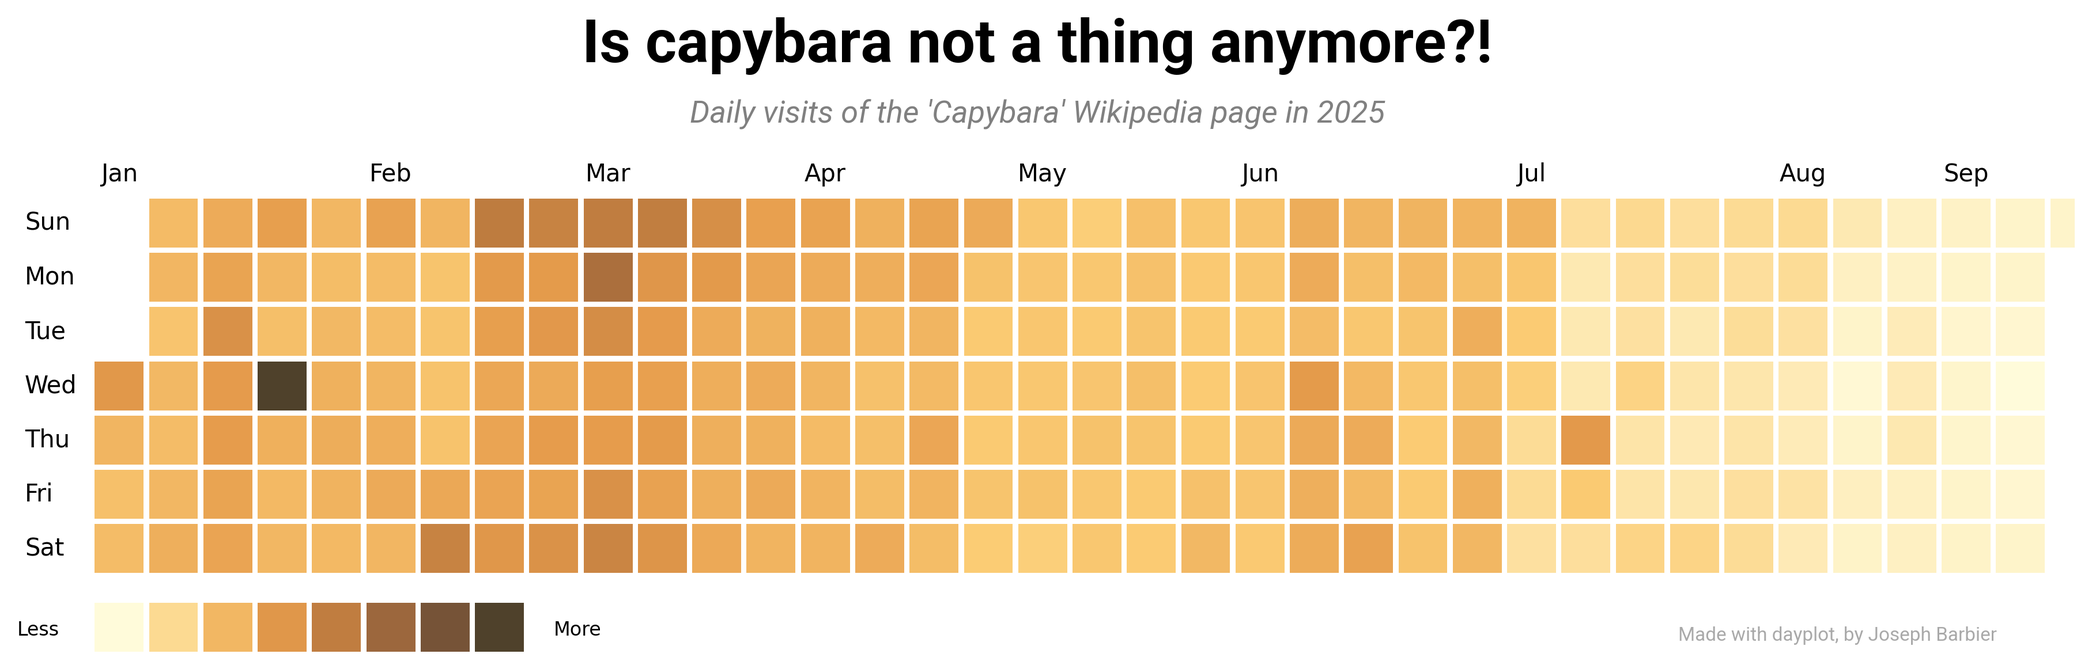
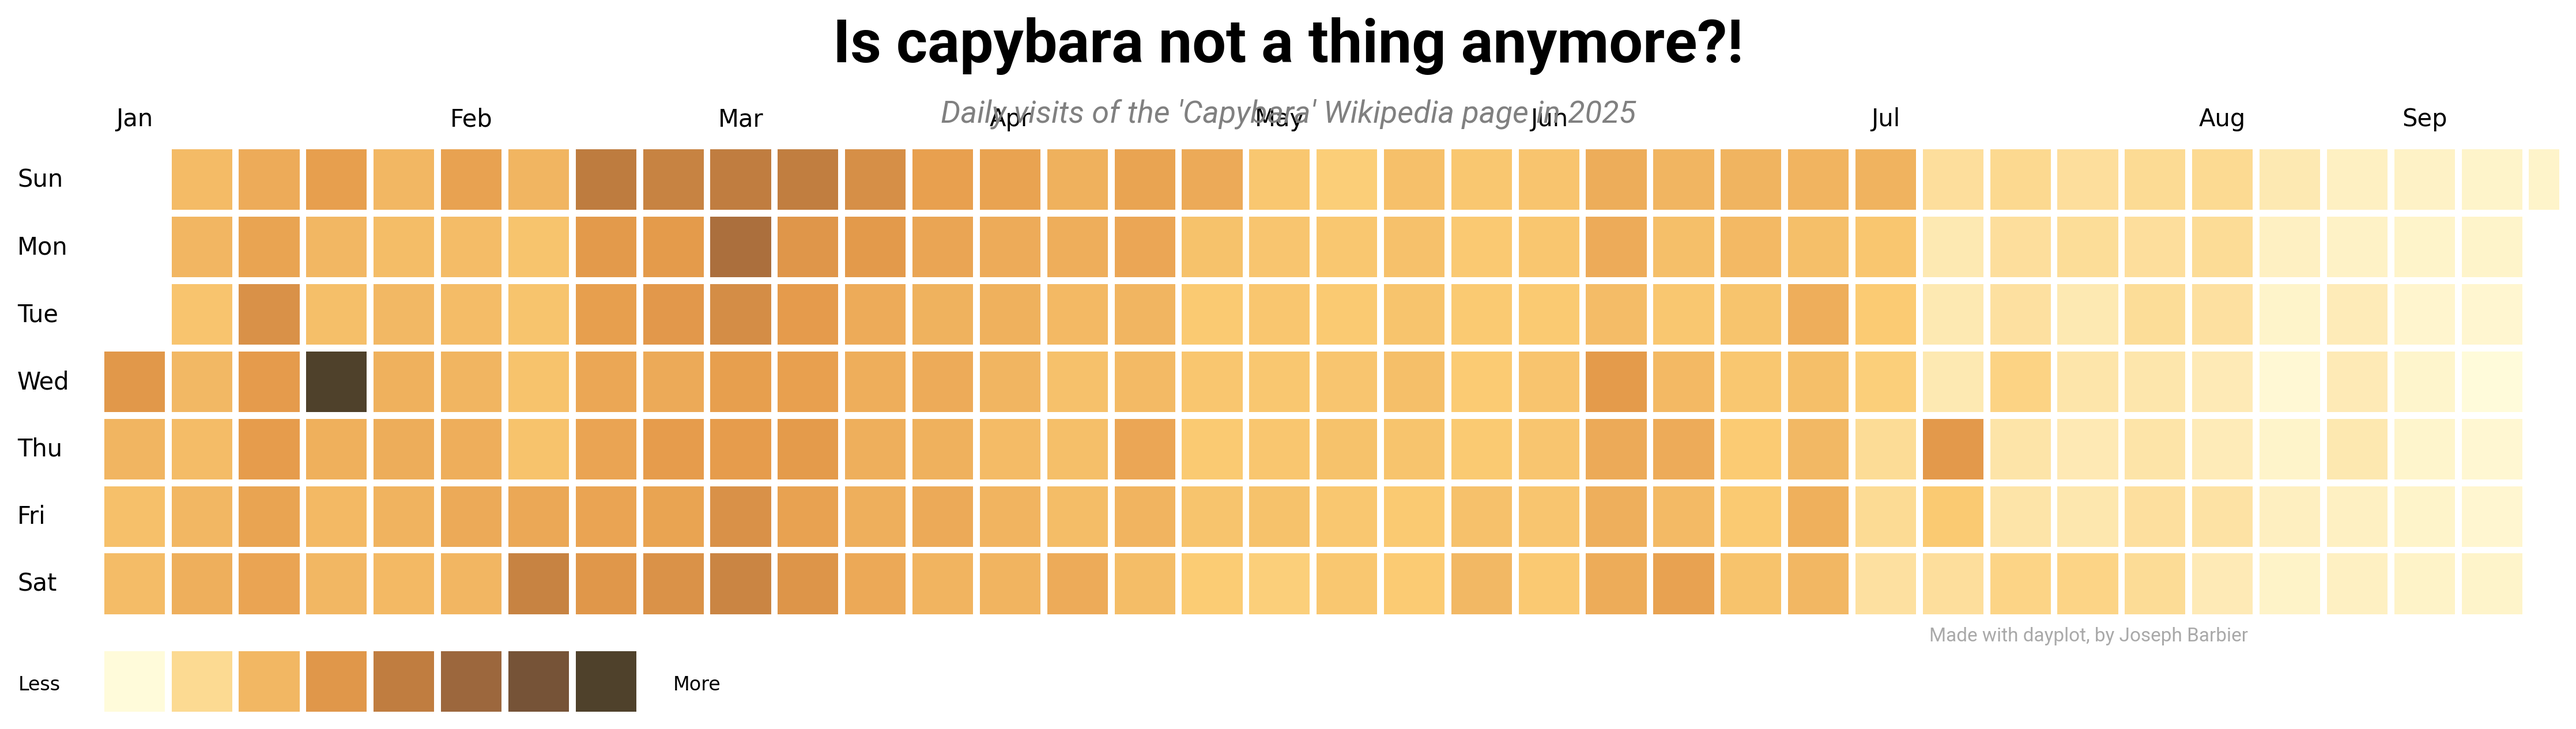
autopush

diff --git a/src/other/typst/__main__.py b/src/other/typst/__main__.py
@@ -1,0 +1,97 @@
+import matplotlib.pyplot as plt
+import matplotlib.dates as mdates
+from datetime import datetime
+from pyfonts import load_google_font, set_default_font
+from highlight_text import fig_text
+from drawarrow import fig_arrow
+import polars as pl
+
+set_default_font(load_google_font("Hanken Grotesk"))
+bold = load_google_font("Hanken Grotesk", weight="bold")
+
+df = pl.read_csv("src/other/typst/typst.csv").with_columns(
+    pl.col("Date")
+    .str.replace(r" \(.*\)", "")  # Remove timezone name in parentheses
+    .str.replace("GMT", "")  # Remove GMT prefix
+    .str.strptime(pl.Datetime, "%a %b %d %Y %H:%M:%S %z")
+    .alias("Date")
+)
+xmin, xmax = df.select(
+    pl.col("Date").min().alias("xmin"),
+    pl.col("Date").max().alias("xmax"),
+).row(0)
+
+
+fig, ax = plt.subplots(figsize=(11, 5))
+
+ax.spines[["top", "right", "left"]].set_visible(False)
+ax.hlines(
+    y=[i * 1000 for i in range(0, 51, 10)],
+    xmin=xmin,
+    xmax=xmax,
+    color="black",
+    linewidth=1,
+    alpha=0.1,
+)
+ax.set_yticks(
+    [i * 1000 for i in range(10, 51, 10)],
+    labels=[f"{i}k" for i in range(10, 51, 10)],
+)
+ax.set_ylim(0, 52000)
+ax.tick_params(pad=4)
+ax.tick_params(axis="y", pad=-15, length=0)
+ax.fill_between(df["Date"].to_list(), df["Stars"].to_list(), alpha=0.4, color="#1a7a87")
+ax.plot(df["Date"].to_list(), df["Stars"].to_list(), color="#239dad", linewidth=2)
+ax.scatter(
+    df["Date"].to_list(),
+    df["Stars"].to_list(),
+    color="#239dad",
+    s=50,
+    clip_on=False,
+    zorder=20,
+)
+
+ax.xaxis.set_major_formatter(mdates.DateFormatter("%b"))
+for year in (2024, 2025, 2026):
+    jan = datetime(year, 1, 1, tzinfo=xmin.tzinfo)
+    ax.text(
+        jan,
+        -0.08,  # vertical offset below ticks
+        str(year),
+        transform=ax.get_xaxis_transform(),
+        font=bold,
+        ha="center",
+        va="top",
+    )
+
+# Annotations for specific data points
+annotations = [
+    (datetime(2023, 7, 19, tzinfo=xmin.tzinfo), 18500, "18.5k"),
+    (datetime(2024, 1, 9, tzinfo=xmin.tzinfo), 23800, "23.8k"),
+    (datetime(2024, 9, 9, tzinfo=xmin.tzinfo), 31800, "31.8k"),
+    (datetime(2025, 5, 14, tzinfo=xmin.tzinfo), 39800, "39.8k"),
+]
+for date, value, label in annotations:
+    ax.vlines(date, 0, value, color="black", linewidth=1, linestyle="-", alpha=0.5)
+    ax.text(date, value + 1500, label, ha="center", va="bottom", size=8, font=bold)
+
+fig.text(
+    x=0.6,
+    y=0.78,
+    s="+51k stars in 2026!",
+    size=8.5,
+    ha="center",
+    font=bold,
+)
+fig_arrow([0.65, 0.81], [0.85, 0.87], radius=-0.1, color="black")
+
+fig_text(
+    x=0.5,
+    y=0.96,
+    s="Total number of <stars> in the <Typst> GitHub repository",
+    size=20,
+    ha="center",
+    highlight_textprops=[{"font": bold}, {"color": "#1a7a87", "font": bold}],
+)
+
+plt.savefig("src/other/typst/output.png", dpi=300, bbox_inches="tight")

diff --git a/file.py b/file.py
@@ -1,0 +1,1 @@
+color = "#aabb92"
